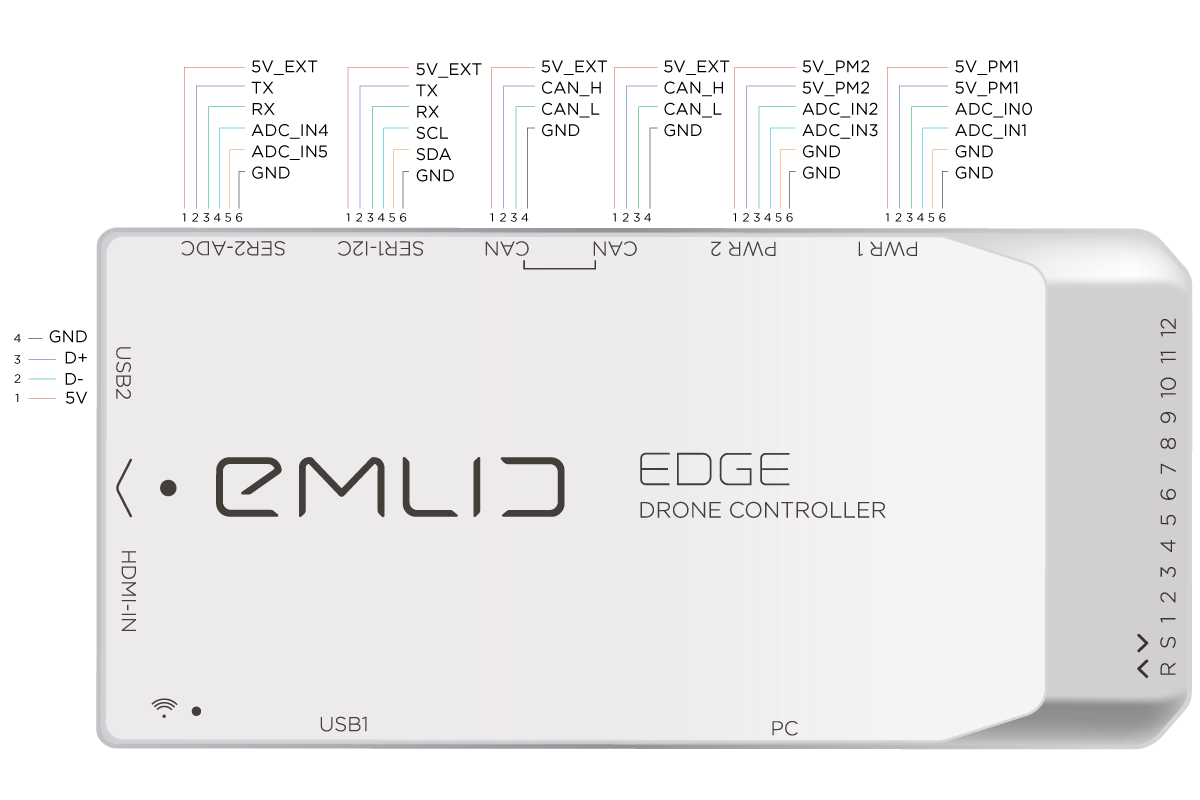
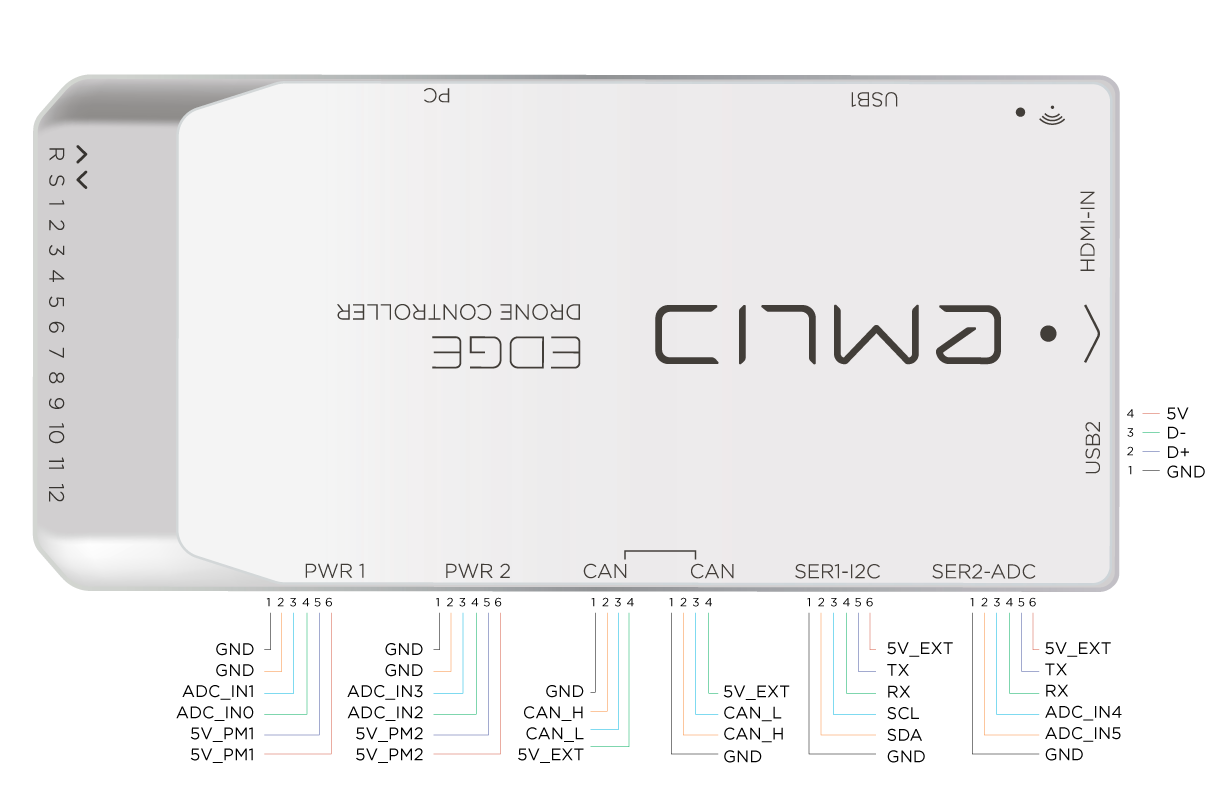
hardware: pinout: update pinout images

Changed region(s): [[0.0, 0.0625, 1.0, 0.9688], [0.2775, 0.375, 0.4933, 0.4688], [0.5242, 0.5625, 0.74, 0.6562]]

diff --git a/docs/hardware/pinout.md b/docs/hardware/pinout.md
@@ -12,4 +12,6 @@
 
 <a href="../../img/hardware/edge_ports_horizontal.png" target="_blank"> ![scheme](https://docs.emlid.com/edge/img/hardware/edge_ports_horizontal.png)</a>
 
+<a href="../../img/hardware/edge_ports_side_view.png" target="_blank"> ![scheme](https://docs.emlid.com/edge/img/hardware/edge_ports_side_view.png)</a>
+
 <a href="../../img/hardware/edge_ports_back.png" target="_blank"> ![scheme](https://docs.emlid.com/edge/img/hardware/edge_ports_back.png)</a>
